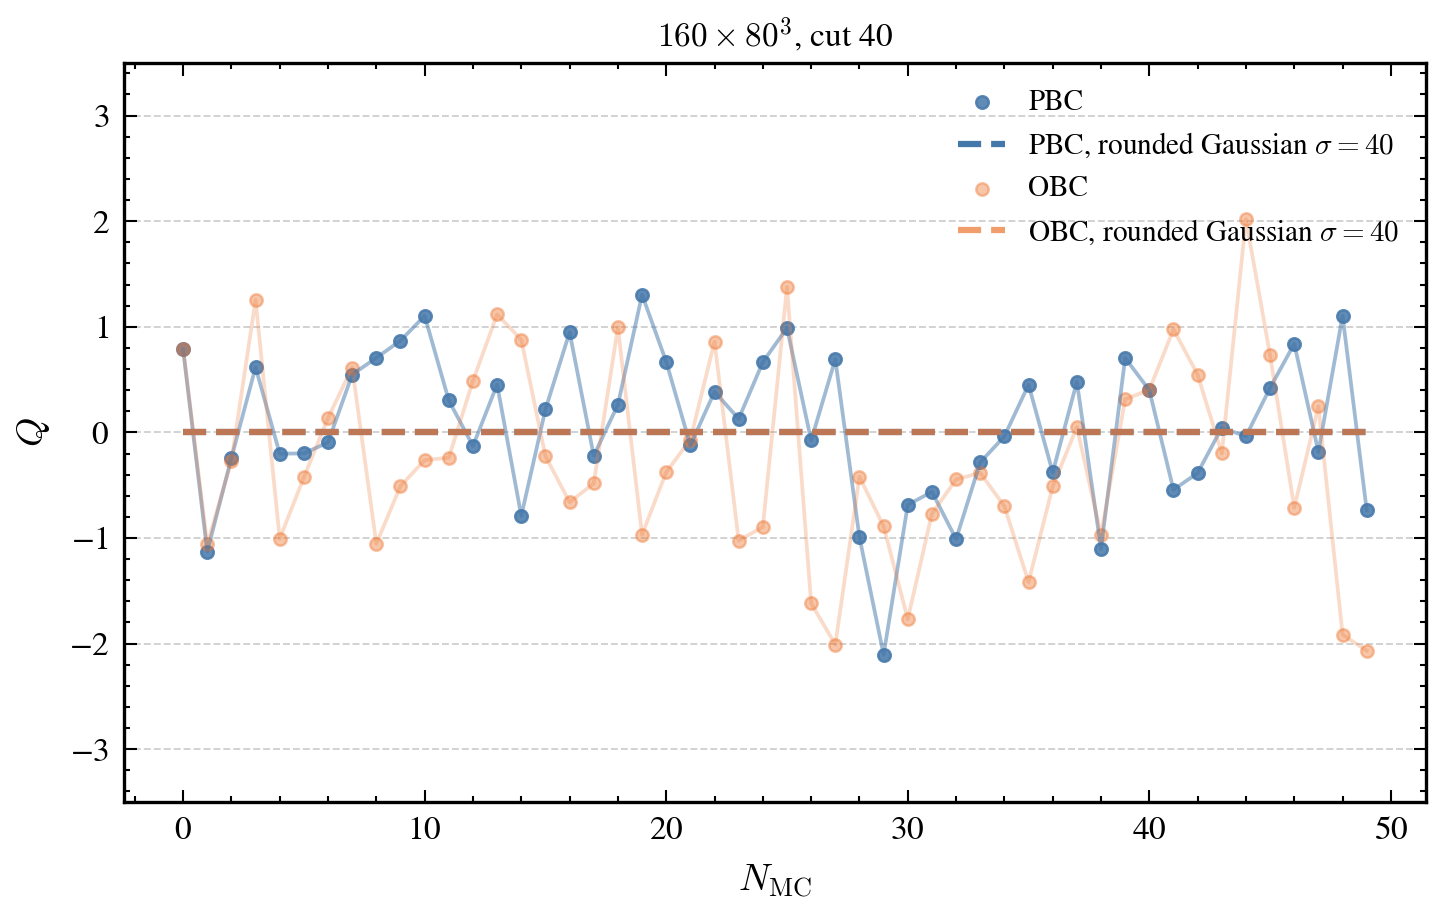
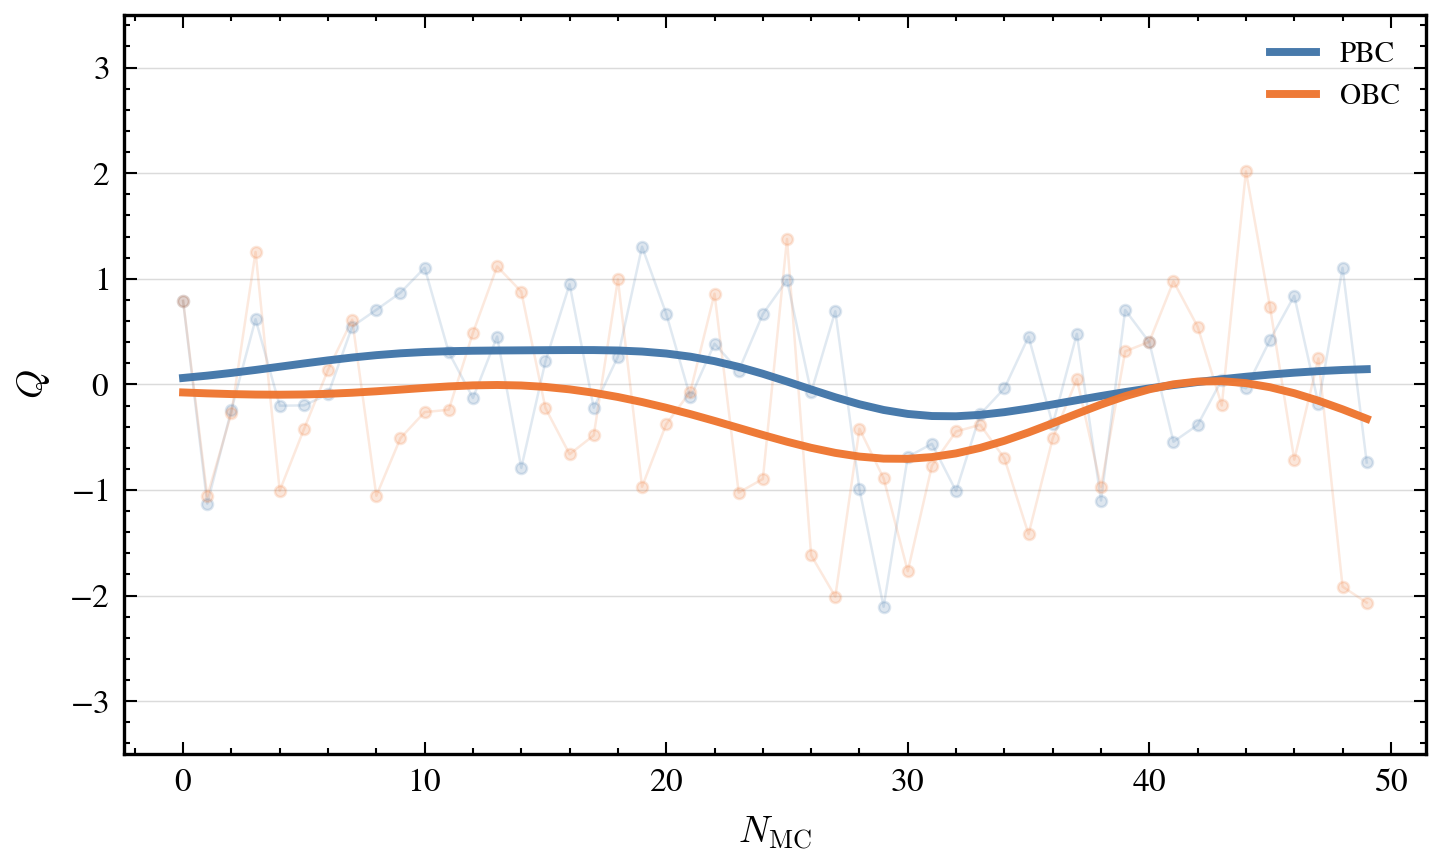
removed plots

diff --git a/analysis/plots_ma.py b/analysis/plots_ma.py
@@ -544,142 +544,6 @@ def plot_thermalization(runs: list[RunData]) -> None:
     _save(fig, "thermalization_su2.png")
 
 
-def plot_open_fine_spacing_overlay(runs: list[RunData]) -> None:
-    groups = [
-        (key, group)
-        for key, group in _concat_groups(runs)
-        if key[3] == "open" and not _is_t160_key(key)
-    ]
-
-    selected = []
-    for target_a in (0.0191, 0.0107):
-        matches = [
-            (key, group)
-            for key, group in groups
-            if abs(lattice_spacing_su2(key[0]) - target_a) < 5e-4
-        ]
-        if not matches:
-            raise RuntimeError(f"missing open ensemble with a ~= {target_a:.4f} fm")
-        selected.append(matches[0])
-
-    series = [
-        (
-            key,
-            group,
-            [run.Q_rescaled.astype(float) for run in group],
-            np.concatenate([run.Q_rescaled.astype(float) for run in group]),
-        )
-        for key, group in selected
-    ]
-    q_min = int(np.floor(min(values.min() for _, _, _, values in series)))
-    q_max = int(np.ceil(max(values.max() for _, _, _, values in series)))
-    max_len = max(len(values) for _, _, _, values in series)
-
-    fig, ax = plt.subplots(figsize=(5.6, 3.2))
-    styles = [
-        {"color": OBC_COLOR, "alpha_line": 0.28, "alpha_marker": 0.45,
-         "markersize": 5.5, "label_suffix": "lighter"},
-        {"color": "#C4551E", "alpha_line": 0.72, "alpha_marker": 0.90,
-         "markersize": 7.0, "label_suffix": "fine"},
-    ]
-
-    for (key, group, q_segments, _), style in zip(series, styles):
-        a_value = lattice_spacing_su2(key[0])
-        label = rf"$a={a_value:.4f}\,\mathrm{{fm}}$"
-
-        offset = 0
-        for segment_idx, q_segment in enumerate(q_segments):
-            x_segment = offset + np.arange(len(q_segment))
-            ax.plot(x_segment, q_segment, color=style["color"], lw=0.9,
-                    alpha=style["alpha_line"], zorder=2)
-            ax.scatter(x_segment, q_segment, s=style["markersize"], color=style["color"],
-                       alpha=style["alpha_marker"],
-                       label=label if segment_idx == 0 else None, zorder=3)
-            offset += len(q_segment)
-            if segment_idx < len(q_segments) - 1:
-                ax.axvline(offset - 0.5, color=style["color"], ls=":",
-                           lw=0.8, alpha=0.35)
-
-    for q_int in range(q_min, q_max + 1):
-        ax.axhline(q_int, color="0.84", ls="--", lw=0.45, zorder=0)
-
-    ax.set_xlabel(MC_LABEL)
-    ax.set_ylabel(r"$Q$")
-    ax.set_xlim(-5, max_len + 5)
-    ax.set_ylim(q_min - 0.5, q_max + 0.5)
-    ax.set_title(r"OBC fine lattices", pad=4)
-    ax.legend(frameon=False, loc="upper right")
-    ax.grid(False)
-    _save(fig, "Q_vs_mctime_obc_a0191_a0107_su2.png")
-
-
-def plot_open_gaussian_smoothing(runs: list[RunData],
-                                 target_a: float,
-                                 a_tag: str) -> None:
-    groups = [
-        (key, group)
-        for key, group in _concat_groups(runs)
-        if key[3] == "open" and not _is_t160_key(key)
-    ]
-    matches = [
-        (key, group)
-        for key, group in groups
-        if abs(lattice_spacing_su2(key[0]) - target_a) < 5e-4
-    ]
-    if not matches:
-        raise RuntimeError(f"missing open ensemble with a ~= {target_a:.4f} fm")
-
-    key, group = matches[0]
-    q_segments = [run.Q_rescaled.astype(float) for run in group]
-    filename = f"Q_vs_mctime_obc_{a_tag}_gaussian_smoothing_rounded_su2.png"
-    q_values = np.concatenate(q_segments)
-    sigma_values = np.array([4.0, 10.0, 20.0, 40.0])
-    smooth_colors = ["#0072B2", "#D55E00", "#009E73", "#882255"]
-
-    fig, ax = plt.subplots(figsize=(6.8, 3.4))
-    offset = 0
-    for idx, q_segment in enumerate(q_segments):
-        x_segment = offset + np.arange(len(q_segment), dtype=float)
-        ax.plot(
-            x_segment, q_segment, color="0.45", lw=0.65, alpha=0.24,
-            label="original" if idx == 0 else None,
-        )
-        ax.scatter(x_segment, q_segment, s=5.0, color="0.35", alpha=0.16, zorder=2)
-
-        local_x = np.arange(len(q_segment), dtype=float)
-        for sigma, color in zip(sigma_values, smooth_colors):
-            y_smooth = np.round(gaussian_smooth(local_x, q_segment, sigma))
-            ax.plot(
-                x_segment, y_smooth, color=color, lw=1.25,
-                label=rf"$\sigma={sigma:g}$" if idx == 0 else None,
-                zorder=3,
-            )
-
-        offset += len(q_segment)
-        if idx < len(q_segments) - 1:
-            ax.axvline(offset - 0.5, color=OBC_COLOR, ls=":", lw=0.8, alpha=0.45)
-
-    q_min = int(np.floor(q_values.min()))
-    q_max = int(np.ceil(q_values.max()))
-    for q_int in range(q_min, q_max + 1):
-        ax.axhline(q_int, color="0.88", ls="--", lw=0.4, zorder=0)
-
-    ax.set_xlabel(MC_LABEL)
-    ax.set_ylabel(r"$Q$")
-    ax.set_title(
-        rf"OBC, $a={lattice_spacing_su2(key[0]):.4f}\,\mathrm{{fm}}$, rounded Gaussian",
-        pad=4,
-    )
-    if len(q_values) >= 0.75 * OVERVIEW_NMC_MAX:
-        ax.set_xlim(0, OVERVIEW_NMC_MAX)
-    else:
-        ax.set_xlim(-5, len(q_values) + 5)
-    ax.set_ylim(q_min - 0.6, q_max + 0.6)
-    ax.legend(frameon=False, loc="upper right", ncol=2)
-    ax.grid(False)
-    _save(fig, filename)
-
-
 def _detrend_for_period(y: np.ndarray) -> np.ndarray:
     x = np.arange(len(y), dtype=float)
     if len(y) >= 3:
@@ -1585,7 +1449,7 @@ def plot_open_gaussian_vs_periodic_gaussian_rounded(runs_open: list[RunData],
             ax_obc.scatter(x_segment, q_segment, s=3.5, color="0.30", alpha=0.20, zorder=2)
 
             local_x = np.arange(len(q_segment), dtype=float)
-            q_smooth = np.round(gaussian_smooth(local_x, q_segment, sigma))
+            q_smooth = gaussian_smooth(local_x, q_segment, sigma)
             ax_obc.plot(x_segment, q_smooth, color=smooth_color, lw=1.1, zorder=3)
 
             estimates = _wavelength_estimates_for_segment(q_segment, sigma)
@@ -1612,7 +1476,7 @@ def plot_open_gaussian_vs_periodic_gaussian_rounded(runs_open: list[RunData],
             ax_pbc.scatter(x_segment, q_segment, s=3.5, color=PBC_COLOR, alpha=0.28, zorder=2)
 
             local_x = np.arange(len(q_segment), dtype=float)
-            q_smooth = np.round(gaussian_smooth(local_x, q_segment, sigma))
+            q_smooth = gaussian_smooth(local_x, q_segment, sigma)
             ax_pbc.plot(x_segment, q_smooth, color=PBC_DARK, lw=1.15, zorder=3)
 
             estimates = _wavelength_estimates_for_segment(q_segment, sigma)
@@ -1647,14 +1511,6 @@ def plot_open_gaussian_vs_periodic_gaussian_rounded(runs_open: list[RunData],
         ax_pbc.text(0.03, 0.90, chr(ord("A") + 2 * row_idx + 1),
                     transform=ax_pbc.transAxes, va="top", ha="left", fontweight="bold")
 
-        title = rf"$a={target_a:.4f}\,\mathrm{{fm}}$, $\sigma={sigma:g}$"
-        ax_obc.set_title(title, pad=3)
-        ax_pbc.set_title(title, pad=3)
-
-    axes[0, 0].text(0.5, 1.26, "OBC Gaussian rounded", transform=axes[0, 0].transAxes,
-                    ha="center", va="bottom")
-    axes[0, 1].text(0.5, 1.26, "PBC Gaussian rounded", transform=axes[0, 1].transAxes,
-                    ha="center", va="bottom")
     for ax in axes[-1, :]:
         ax.set_xlabel(MC_LABEL, fontsize=8)
 
@@ -1703,7 +1559,7 @@ def plot_t160_history(runs: list[RunData]) -> None:
     shared_min = int(np.floor(min(q.min() for q in q_arrays)))
     shared_max = int(np.ceil(max(q.max() for q in q_arrays)))
 
-    sigma = 40.0
+    sigma = 5.0
     fig, ax = plt.subplots(figsize=(5.6, 3.2))
     max_total_len = 0
     for key, group, q_segments in zip([item[0] for item in groups],
@@ -1711,23 +1567,18 @@ def plot_t160_history(runs: list[RunData]) -> None:
                                       q_segments_by_group):
         color = _boundary_color(key[3])
         label = _t160_legend_label(key)
-        smooth_label = rf"{label}, rounded Gaussian $\sigma={sigma:g}$"
-        raw_line_alpha = 0.26 if key[3] == "open" else 0.50
-        raw_marker_alpha = 0.42 if key[3] == "open" else 0.85
-        smooth_alpha = 0.72 if key[3] == "open" else 1.0
         offset = 0
         for segment_idx, q_segment in enumerate(q_segments):
             x_segment = offset + np.arange(len(q_segment), dtype=float)
-            ax.plot(x_segment, q_segment, color=color, lw=0.9, alpha=raw_line_alpha)
-            ax.scatter(x_segment, q_segment, s=9, color=color, alpha=raw_marker_alpha,
-                       label=label if segment_idx == 0 else None)
+            ax.plot(x_segment, q_segment, color=color, lw=0.6, alpha=0.16, zorder=1)
+            ax.scatter(x_segment, q_segment, s=7, color=color, alpha=0.18, zorder=2)
 
             local_x = np.arange(len(q_segment), dtype=float)
-            q_smooth = np.round(gaussian_smooth(local_x, q_segment, sigma))
+            q_smooth = gaussian_smooth(local_x, q_segment, sigma)
             ax.plot(
-                x_segment, q_smooth, color=color, lw=1.5, ls="--",
-                alpha=smooth_alpha,
-                label=smooth_label if segment_idx == 0 else None,
+                x_segment, q_smooth, color=color, lw=1.9, ls="-",
+                alpha=0.98,
+                label=label if segment_idx == 0 else None,
                 zorder=4,
             )
 
@@ -1737,16 +1588,16 @@ def plot_t160_history(runs: list[RunData]) -> None:
         max_total_len = max(max_total_len, offset)
 
     for q_int in range(shared_min, shared_max + 1):
-        ax.axhline(q_int, color="0.82", ls="--", lw=0.45, zorder=0)
+        ax.axhline(q_int, color="0.86", ls="-", lw=0.35, zorder=0)
 
     ax.set_xlabel(MC_LABEL)
     ax.set_ylabel(r"$Q$")
-    ax.set_title(r"$160\times 80^3$, cut 40", pad=4)
     ax.set_ylim(shared_min - 0.5, shared_max + 0.5)
     if max_total_len >= 0.75 * OVERVIEW_NMC_MAX:
         ax.set_xlim(0, OVERVIEW_NMC_MAX)
     ax.legend(frameon=False, loc="upper right", handlelength=1.6)
     ax.grid(False)
+
     _save(fig, "Q_vs_mctime_T160_L80_su2.png")
 
 
@@ -1760,8 +1611,6 @@ def main() -> None:
     plot_thermalization(runs_periodic + runs_open)
     plot_q_history_concatenated(runs_open, "open", "Q_vs_mctime_concatenated_su2_open.png")
     plot_q_history_concatenated(runs_periodic, "periodic", "Q_vs_mctime_concatenated_su2_periodic.png")
-    plot_open_fine_spacing_overlay(runs_open)
-    plot_open_gaussian_smoothing(runs_open, target_a=0.0191, a_tag="a0191")
     _scan_sigma_for_wavelengths(runs_open, runs_periodic)
     plot_open_gaussian_vs_periodic_gaussian_rounded(runs_open, runs_periodic)
     plot_t160_history(runs_periodic + runs_open)
